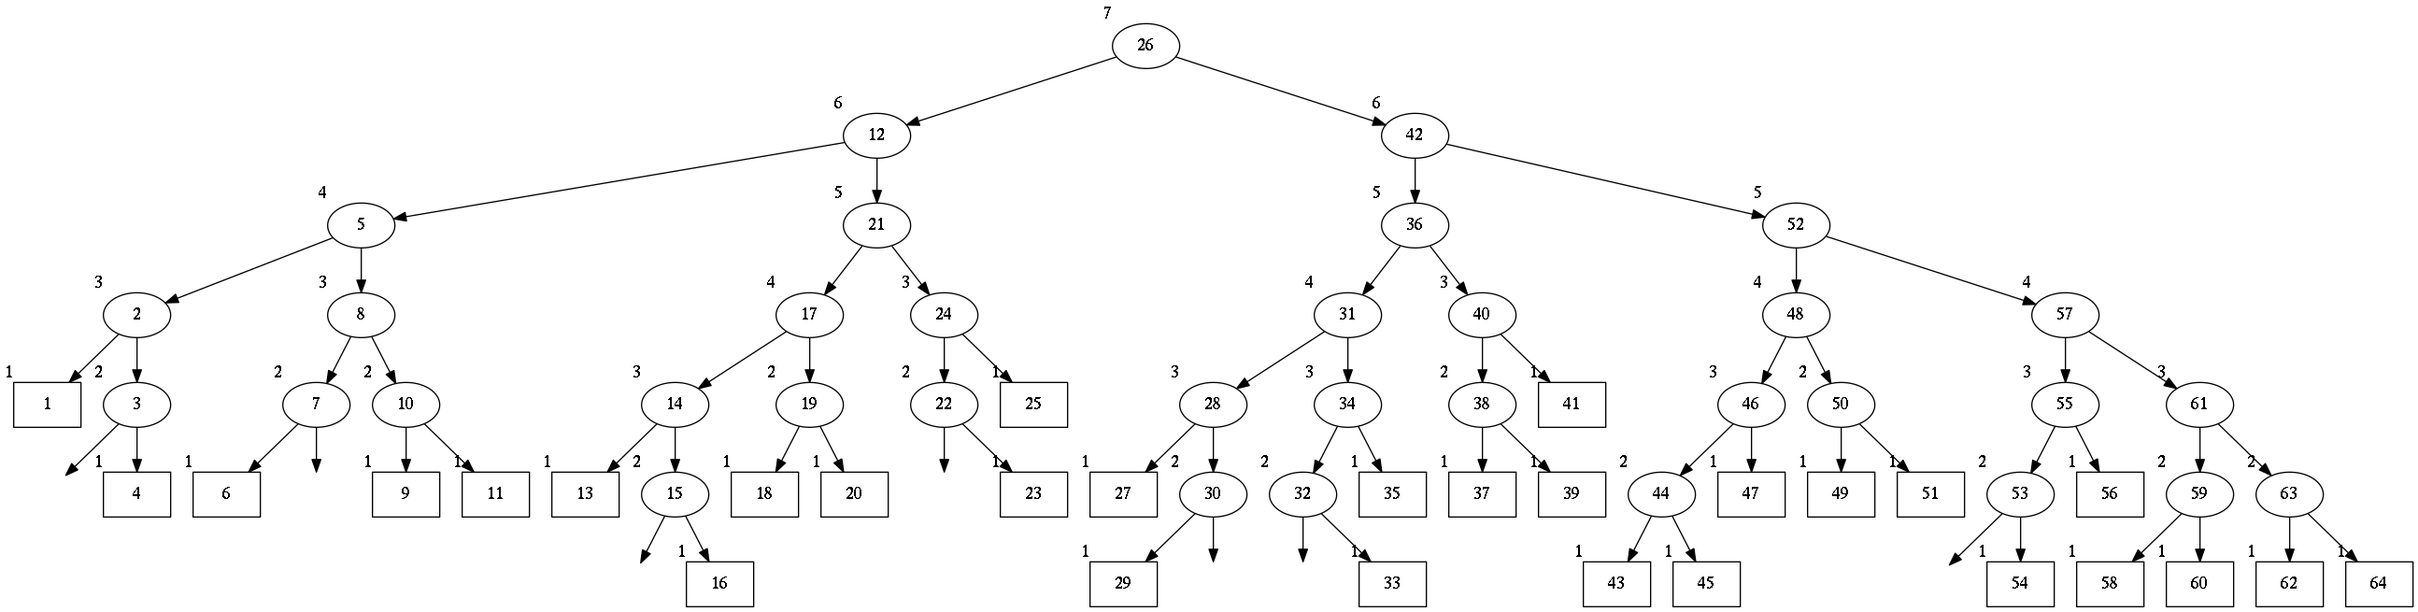
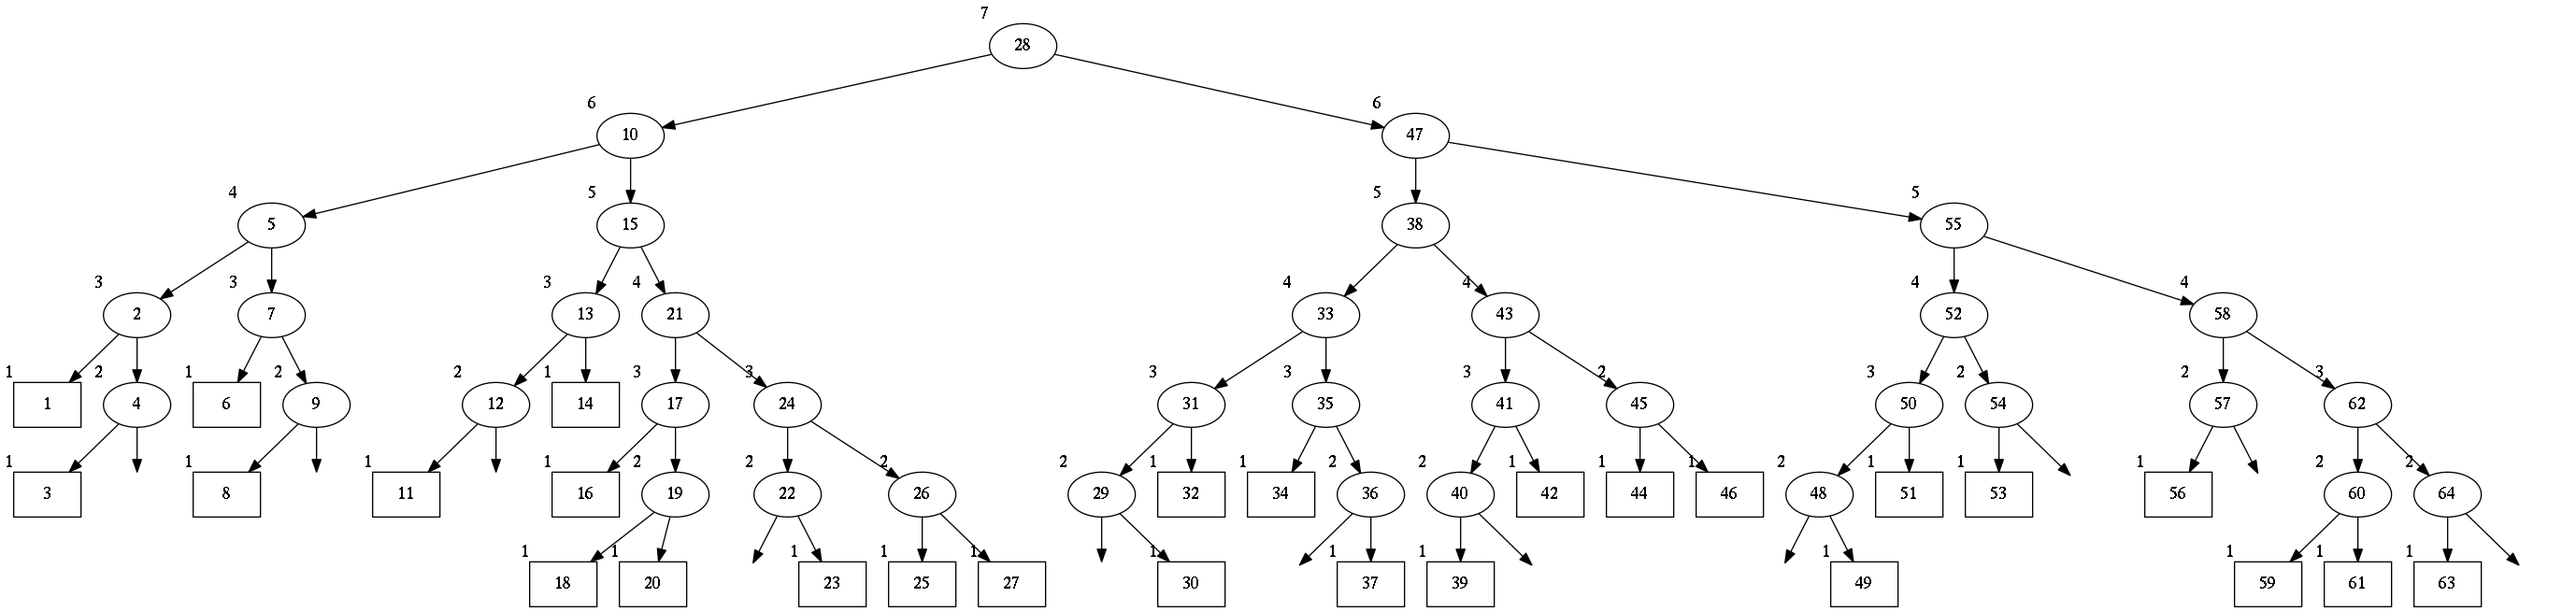
add ToList extensions

diff --git a/src/avltreelistextensions.cs b/src/avltreelistextensions.cs
@@ -1,0 +1,47 @@
+using System; 
+using System.Collections.Generic; 
+
+static class AVLTreeListExtensions {
+
+  public delegate void TraversalDelegate<T>(AVLTree<T>.Node tree, List<T> list); 
+
+  private static void TraversePreorder<T>(AVLTree<T>.Node tree, List<T> list) {
+    if (tree.left != null) TraversePreorder(tree.left, list);
+    list.Add(tree.value);
+    if (tree.right != null) TraversePreorder(tree.right, list); 
+  }
+
+  private static void TraversePostorder<T>(AVLTree<T>.Node tree, List<T> list) {
+    if (tree.right != null) TraversePostorder(tree.right, list); 
+    list.Add(tree.value);
+    if (tree.left != null) TraversePostorder(tree.left, list);
+  }
+
+  private static void TraverseInorder<T>(AVLTree<T>.Node tree, List<T> list) {
+    list.Add(tree.value);
+    if (tree.right != null) TraverseInorder(tree.right, list); 
+    if (tree.left != null) TraverseInorder(tree.left, list);
+  }
+
+  public static TraversalDelegate<T> Postorder<T>(this AVLTree<T> tree) {
+    return TraversePostorder<T>; 
+  }
+
+  public static TraversalDelegate<T> Preorder<T>(this AVLTree<T> tree) {
+    return TraversePreorder<T>; 
+  }
+
+  public static TraversalDelegate<T> Inorder<T>(this AVLTree<T> tree) {
+    return TraverseInorder<T>; 
+  }
+
+  public static List<T> ToList<T>(this AVLTree<T> tree, TraversalDelegate<T> traversalmethod) {
+    var list = new List<T>();
+    traversalmethod(tree.root, list);
+    return list;
+  }
+
+  public static List<T> ToList<T>(this AVLTree<T> tree) {
+    return tree.ToList<T>(TraversePreorder<T>);
+  }
+}

diff --git a/demo/treesort.cs b/demo/treesort.cs
@@ -1,0 +1,27 @@
+using System; 
+using System.Collections.Generic; 
+using System.Diagnostics; 
+
+public class Treesort {
+
+  public static void Main() {
+
+    int n = 1000000;
+    var random = new Random();
+    var L = new List<int>(n);
+    Console.WriteLine("Generating {0} random elements...", n); 
+    for(int i = 0; i < n; i++)
+      L.Add(random.Next()); 
+
+    var T = new AVLTree<int>();
+    Console.WriteLine("Sorting {0} random elements...", n); 
+    var sw = Stopwatch.StartNew(); 
+    foreach(var i in L) 
+      T.Insert(i); 
+    var elapsedInsert = sw.ElapsedMilliseconds;
+    L = T.ToList(); 
+    var elapsedRemove = sw.ElapsedMilliseconds;
+    sw.Stop(); 
+    Console.WriteLine("Insertion: {0} Removal: {1} Combined: {2}", elapsedInsert, elapsedRemove, elapsedInsert + elapsedRemove); 
+  }
+}

diff --git a/demo/testtraverse.cs b/demo/testtraverse.cs
@@ -1,0 +1,14 @@
+public class TestTraverse {
+
+  public static void Main() {
+    var avltree = new AVLTree<int>(); 
+    for(int i = 15; i > 0; i--)
+      avltree.Insert(i); 
+
+    foreach(var i in avltree.ToList())
+      System.Console.WriteLine(i); 
+    foreach(var i in avltree.ToList(avltree.Postorder()))
+      System.Console.WriteLine(i); 
+
+  }
+}

diff --git a/src/avltree.cs b/src/avltree.cs
@@ -21,11 +21,7 @@ public class AVLTree<T> {
 
   public void Insert(T value) {
     numElements++; 
-    if (root == null) 
-      root = new Node(value, null); 
-    else {
-      root = root.Insert(value, compare); 
-    }
+    root = (root == null) ? new Node(value, null) : root.Insert(value, compare); 
   }
 
   public Node Find(T value) {

diff --git a/demo/teststrings.cs b/demo/teststrings.cs
@@ -7,7 +7,7 @@ public class TestAVL {
     avltree.Insert("Tyrion"); 
     avltree.Insert("Myrcella"); 
     avltree.Insert("Joffrey"); 
-    avltree.Insert("Tomnen"); 
+    avltree.Insert("Tommen"); 
     avltree.Insert("Cersei"); 
 
 //    var n = avltree.Find("Tywin");

diff --git a/README.md b/README.md
@@ -3,13 +3,16 @@
 <div id="text-table-of-contents">
 <ul>
 <li><a href="#orgheadline1">1. Balanced binary AVL Tree</a></li>
-<li><a href="#orgheadline2">2. Graphviz Output</a></li>
-<li><a href="#orgheadline7">3. Demo</a>
+<li><a href="#orgheadline2">2. ToList Extension</a></li>
+<li><a href="#orgheadline3">3. Graphviz Output</a></li>
+<li><a href="#orgheadline10">4. Demo</a>
 <ul>
-<li><a href="#orgheadline3">3.1. Inorder Insertion and Single Rotations</a></li>
-<li><a href="#orgheadline4">3.2. Double Rotations</a></li>
-<li><a href="#orgheadline5">3.3. Strings</a></li>
-<li><a href="#orgheadline6">3.4. Random Insertion</a></li>
+<li><a href="#orgheadline4">4.1. Inorder Insertion and Single Rotations</a></li>
+<li><a href="#orgheadline5">4.2. Double Rotations</a></li>
+<li><a href="#orgheadline6">4.3. Strings</a></li>
+<li><a href="#orgheadline7">4.4. Random Insertion</a></li>
+<li><a href="#orgheadline8">4.5. Traversal</a></li>
+<li><a href="#orgheadline9">4.6. Sort Performance</a></li>
 </ul>
 </li>
 </ul>
@@ -42,11 +45,7 @@
     
       public void Insert(T value) {
         numElements++; 
-        if (root == null) 
-          root = new Node(value, null); 
-        else {
-          root = root.Insert(value, compare); 
-        }
+        root = (root == null) ? new Node(value, null) : root.Insert(value, compare); 
       }
     
       public Node Find(T value) {
@@ -167,7 +166,57 @@
 -   **Insertion:** O(log n)
 -   **Find:** O(log n)
 
-# Graphviz Output<a id="orgheadline2"></a>
+# ToList Extension<a id="orgheadline2"></a>
+
+    using System; 
+    using System.Collections.Generic; 
+    
+    static class AVLTreeListExtensions {
+    
+      public delegate void TraversalDelegate<T>(AVLTree<T>.Node tree, List<T> list); 
+    
+      private static void TraversePreorder<T>(AVLTree<T>.Node tree, List<T> list) {
+        if (tree.left != null) TraversePreorder(tree.left, list);
+        list.Add(tree.value);
+        if (tree.right != null) TraversePreorder(tree.right, list); 
+      }
+    
+      private static void TraversePostorder<T>(AVLTree<T>.Node tree, List<T> list) {
+        if (tree.right != null) TraversePostorder(tree.right, list); 
+        list.Add(tree.value);
+        if (tree.left != null) TraversePostorder(tree.left, list);
+      }
+    
+      private static void TraverseInorder<T>(AVLTree<T>.Node tree, List<T> list) {
+        list.Add(tree.value);
+        if (tree.right != null) TraverseInorder(tree.right, list); 
+        if (tree.left != null) TraverseInorder(tree.left, list);
+      }
+    
+      public static TraversalDelegate<T> Postorder<T>(this AVLTree<T> tree) {
+        return TraversePostorder<T>; 
+      }
+    
+      public static TraversalDelegate<T> Preorder<T>(this AVLTree<T> tree) {
+        return TraversePreorder<T>; 
+      }
+    
+      public static TraversalDelegate<T> Inorder<T>(this AVLTree<T> tree) {
+        return TraverseInorder<T>; 
+      }
+    
+      public static List<T> ToList<T>(this AVLTree<T> tree, TraversalDelegate<T> traversalmethod) {
+        var list = new List<T>();
+        traversalmethod(tree.root, list);
+        return list;
+      }
+    
+      public static List<T> ToList<T>(this AVLTree<T> tree) {
+        return tree.ToList<T>(TraversePreorder<T>);
+      }
+    }
+
+# Graphviz Output<a id="orgheadline3"></a>
 
     using System;
     
@@ -214,9 +263,9 @@
       }
     }
 
-# Demo<a id="orgheadline7"></a>
+# Demo<a id="orgheadline10"></a>
 
-## Inorder Insertion and Single Rotations<a id="orgheadline3"></a>
+## Inorder Insertion and Single Rotations<a id="orgheadline4"></a>
 
     public class TestAVL {
     
@@ -234,7 +283,7 @@
 
 ![img](images/avltree.png)
 
-## Double Rotations<a id="orgheadline4"></a>
+## Double Rotations<a id="orgheadline5"></a>
 
     public class TestAVL {
     
@@ -264,7 +313,7 @@
 
 ![img](images/avltree2.png)
 
-## Strings<a id="orgheadline5"></a>
+## Strings<a id="orgheadline6"></a>
 
     public class TestAVL {
     
@@ -275,7 +324,7 @@
         avltree.Insert("Tyrion"); 
         avltree.Insert("Myrcella"); 
         avltree.Insert("Joffrey"); 
-        avltree.Insert("Tomnen"); 
+        avltree.Insert("Tommen"); 
         avltree.Insert("Cersei"); 
     
     //    var n = avltree.Find("Tywin");
@@ -290,7 +339,7 @@
 
 ![img](images/avltree3.png)
 
-## Random Insertion<a id="orgheadline6"></a>
+## Random Insertion<a id="orgheadline7"></a>
 
 Sibling heights should only differ by 1: 
 
@@ -316,3 +365,56 @@ Sibling heights should only differ by 1:
     mono demo/testrandom.exe
 
 ![img](images/avltree4.png)
+
+## Traversal<a id="orgheadline8"></a>
+
+    public class TestTraverse {
+    
+      public static void Main() {
+        var avltree = new AVLTree<int>(); 
+        for(int i = 15; i > 0; i--)
+          avltree.Insert(i); 
+    
+        foreach(var i in avltree.ToList())
+          System.Console.WriteLine(i); 
+        foreach(var i in avltree.ToList(avltree.Postorder()))
+          System.Console.WriteLine(i); 
+    
+      }
+    }
+
+    mcs demo/testtraverse.cs src/avltreelistextensions.cs src/avltree.cs
+    mono demo/testtraverse.exe
+
+## Sort Performance<a id="orgheadline9"></a>
+
+    using System; 
+    using System.Collections.Generic; 
+    using System.Diagnostics; 
+    
+    public class Treesort {
+    
+      public static void Main() {
+    
+        int n = 1000000;
+        var random = new Random();
+        var L = new List<int>(n);
+        Console.WriteLine("Generating {0} random elements...", n); 
+        for(int i = 0; i < n; i++)
+          L.Add(random.Next()); 
+    
+        var T = new AVLTree<int>();
+        Console.WriteLine("Sorting {0} random elements...", n); 
+        var sw = Stopwatch.StartNew(); 
+        foreach(var i in L) 
+          T.Insert(i); 
+        var elapsedInsert = sw.ElapsedMilliseconds;
+        L = T.ToList(); 
+        var elapsedRemove = sw.ElapsedMilliseconds;
+        sw.Stop(); 
+        Console.WriteLine("Insertion: {0} Removal: {1} Combined: {2}", elapsedInsert, elapsedRemove, elapsedInsert + elapsedRemove); 
+      }
+    }
+
+    mcs demo/treesort.cs src/avltreelistextensions.cs src/avltree.cs
+    mono demo/treesort.exe
